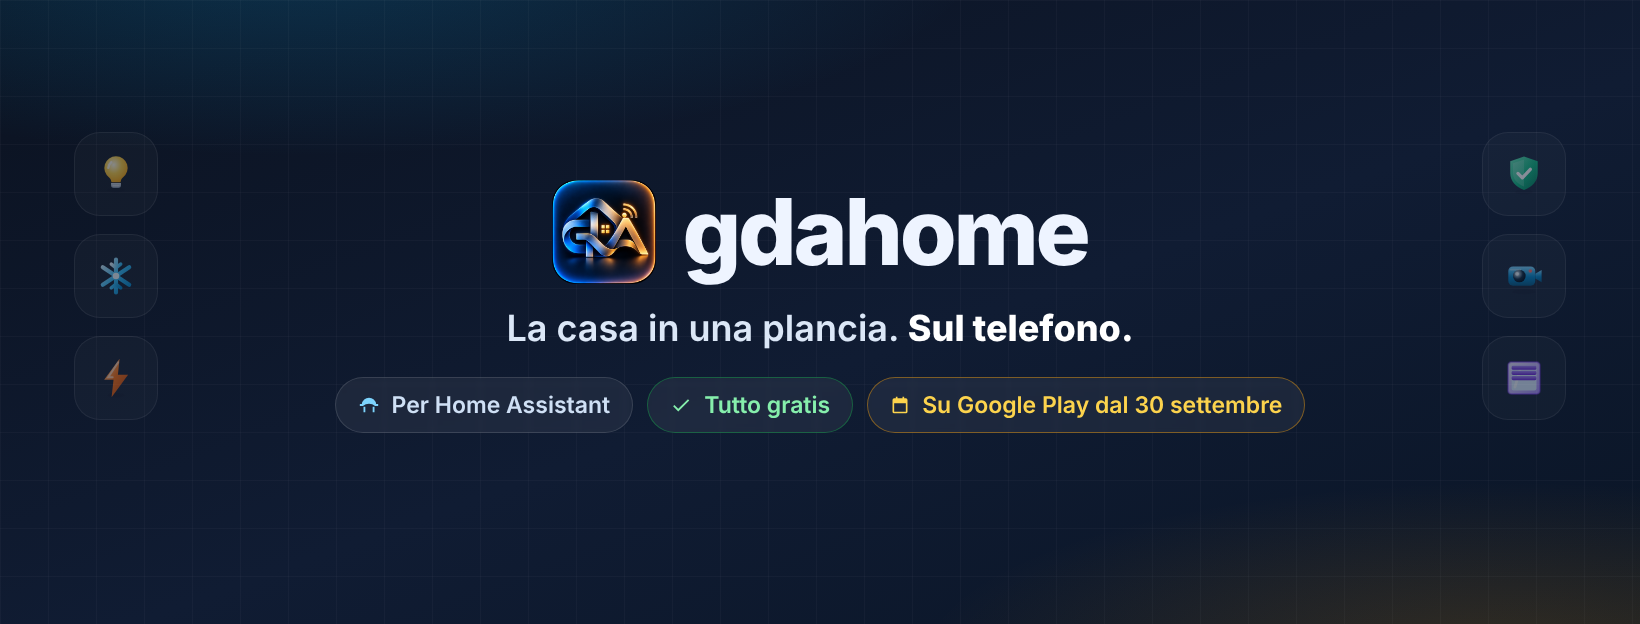
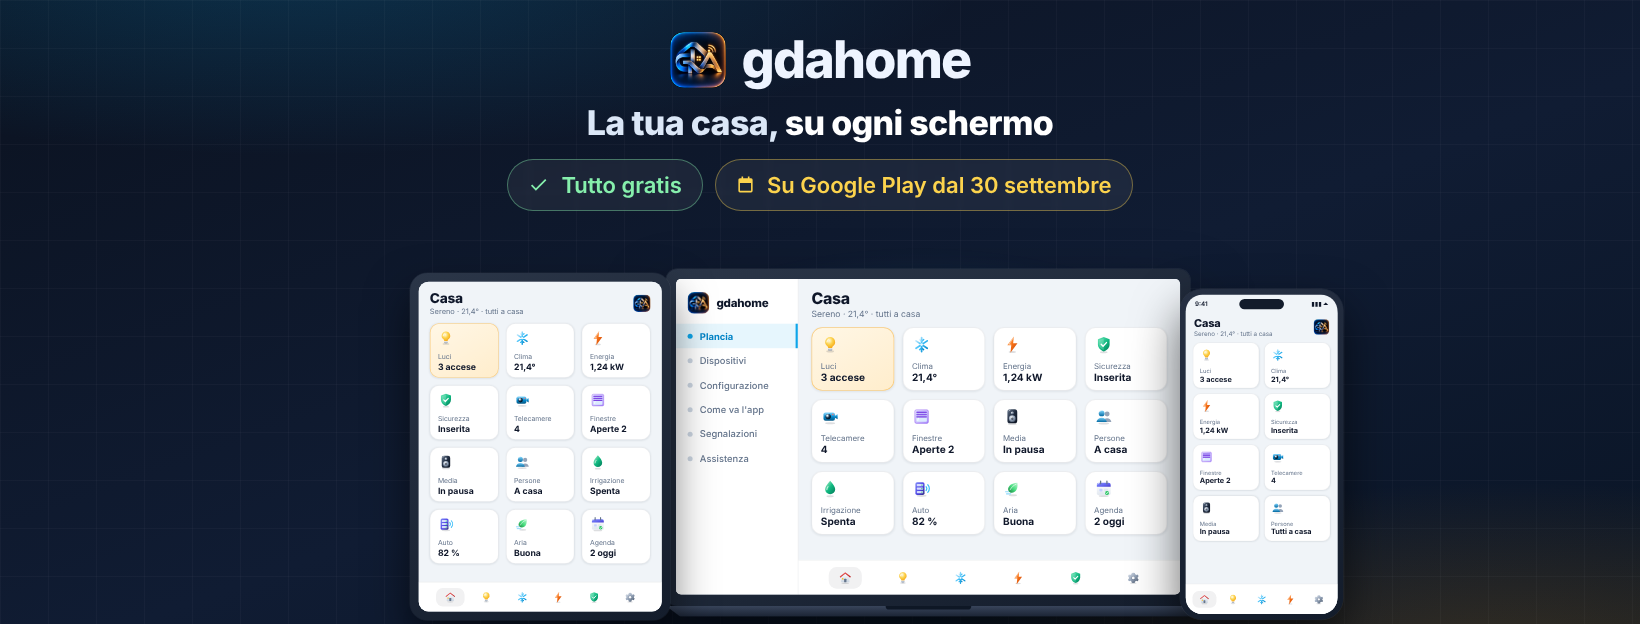
Le copertine fanno vedere i tre schermi, invece di dire che ci sono
La copertina di prima diceva «la casa in una plancia, sul telefono», e
faceva vedere un telefono. Ma gdahome **non e' un'app da telefono**: e' la
stessa pagina che si apre sul tablet in cucina e sul computer, e chi la
vede per la prima volta questo non lo sa — a dirglielo a parole non ci
crede, e a farglielo vedere ci crede subito.

Quindi adesso ci sono tutti e tre gli schermi, e su ognuno la plancia
**com'e' davvero li' sopra**: quattro colonne e il menu aperto di fianco
sul computer — che dal browser resta aperto per davvero — tre colonne sul
tablet, due sul telefono. Sopra, «La tua casa, su ogni schermo», e le due
pastiglie di prima: tutto gratis, su Google Play dal 30 settembre.

I pezzi nuovi stanno in `pezzi.js` e sono tre: `computer` (lo schermo e la
base che lo fa stare in piedi — un trapezio, perche' un rettangolo sotto
uno schermo sembra un rettangolo sotto uno schermo), `tavoletta`, e
`planciaLarga`, che e' la plancia con il numero di colonne che le si dice e
il menu di fianco se lo si vuole.

**Gli schermi si disegnano grandi e poi si guardano da lontano.** Il primo
giro il tablet era disegnato piccolo, e le tessere venivano strette un
terzo: «3 accese» andava a capo dentro una tessera alta come le altre, e
usciva dal bordo di sotto. Adesso il tablet si disegna a 420×560 — le
proporzioni vere — e a rimpicciolirlo e' l'involucro. Dentro non cambia
niente.

Il resto sono le due cose che Facebook taglia, e stavolta si vedono
[…]

diff --git a/strumenti/video/copertine.js b/strumenti/video/copertine.js
@@ -1,19 +1,35 @@
 /* Le due copertine di Facebook.
  *
+ * Fanno vedere una cosa sola, e in un colpo: **la stessa casa su tutti e tre
+ * gli schermi**. Chi vede gdahome per la prima volta pensa a un'app da
+ * telefono; il computer e il tablet non se li immagina, e a dirglielo a parole
+ * non ci crede. Percio' qui non c'e' scritto «va su tutti i dispositivi»: ci
+ * sono i tre dispositivi, con sopra la plancia com'e' davvero su ognuno —
+ * quattro colonne e il menu aperto di fianco sul computer, tre sul tablet, due
+ * sul telefono.
+ *
  * Quale delle due si disegna lo dice l'indirizzo — `copertine.html?tipo=gruppo`
- * — e quello che cambia non e' l'aspetto ma **dove Facebook taglia**:
+ * — e quello che cambia non e' il disegno ma **dove Facebook taglia**:
  *
- * - il **gruppo** e' 1640×856 e si perde soprattutto in basso, dove sul
- *   telefono ci finisce sopra il nome del gruppo;
- * - la **pagina** e' 1640×624 e sul telefono se ne vede solo la parte in
- *   mezzo, due terzi scarsi della larghezza; in basso a sinistra, sul
- *   computer, ci sta sopra la foto del profilo.
- *
- * Quindi la pagina ha tutto in mezzo e niente ai lati, e il gruppo puo'
- * permettersi il telefono di fianco.
+ * - il **gruppo** e' 1640×856: sul telefono si accorcia, e in fondo ci finisce
+ *   sopra il nome del gruppo. Percio' le parole stanno in alto e gli schermi
+ *   sotto, dove al massimo si perde un pezzo di cornice.
+ * - la **pagina** e' 1640×624: sul telefono se ne vede solo la parte in mezzo,
+ *   due terzi scarsi — da 279 a 1361 — e in basso a sinistra, sul computer, ci
+ *   sta sopra la foto del profilo. Percio' e' tutto in mezzo, e gli schermi
+ *   cominciano piu' a destra di dove arriva quella foto.
  */
 
-import { MARCHIO, mettiInScena, oggetto, plancia, segno, telefono } from "./pezzi.js";
+import {
+  computer,
+  MARCHIO,
+  mettiInScena,
+  plancia,
+  planciaLarga,
+  segno,
+  tavoletta,
+  telefono,
+} from "./pezzi.js";
 
 const misure = new URLSearchParams(location.search);
 const quale = misure.get("tipo") || "gruppo";
@@ -21,33 +37,47 @@ document.documentElement.style.setProperty("--alto", `${misure.get("alto") || 85
 
 const SCENE = [];
 
-const firma = (lato, nome) => `
-  <div class="firma">
-    <img src="${MARCHIO}" width="${lato}" height="${lato}" style="border-radius:${Math.round(lato * 0.23)}px" alt="" />
-    <h1 class="nome">gdahome</h1>
-  </div>`;
+/* L'alone dietro gli schermi: senza, i tre stanno appiccicati sul fondo
+   scuro; con, sembrano poggiati su qualcosa. */
+const alone = (x, y, largo, alto) => `
+  <div style="position:absolute;left:${x}px;top:${y}px;width:${largo}px;height:${alto}px;
+              background:radial-gradient(closest-side,rgba(14,165,233,.42),rgba(56,189,248,.12) 55%,rgba(14,165,233,0));
+              filter:blur(6px)"></div>`;
 
-const pastiglie = `
-  <div class="pastiglie">
-    <span class="vetro">${segno("ponte", 24, "#7dd3fc")} Un add-on di Home Assistant</span>
-    <span class="vetro verde">${segno("spunta", 24, "#86efac")} Tutto gratis</span>
-    <span class="vetro ambra">${segno("calendario", 22, "#fcd34d")} Su Google Play dal 30 settembre</span>
-  </div>`;
+/* L'ombra sotto: senza, i tre schermi galleggiano sul fondo; con, poggiano. */
+const ombra = (x, y, largo) => `
+  <div style="position:absolute;left:${x}px;top:${y}px;width:${largo}px;height:46px;border-radius:50%;
+              background:radial-gradient(closest-side,rgba(0,0,0,.6),rgba(0,0,0,0));filter:blur(10px)"></div>`;
 
-/* Il contorno della copertina della pagina: i disegni della plancia, senza
-   parole. Stanno **fuori** dalla parte che si vede sul telefono, ed e' apposta:
-   li' ci va solo roba che si puo' perdere. Senza parole perche' una parola
-   tagliata a meta' non sembra un contorno, sembra un errore — e con la parola
-   accanto era quello che succedeva. */
-const contorno = (dove, quali) => `
-  <div class="contorno" style="${dove}">
-    ${quali
-      .map(
-        (nome) =>
-          `<div class="vetro" style="width:84px;height:84px;border-radius:26px;display:grid;place-items:center;padding:0">${oggetto(nome, 44)}</div>`,
-      )
-      .join("")}
-  </div>`;
+const pastiglia = (testo, disegno, tinta) => `
+  <span class="vetro" style="border-color:${tinta}66;color:${tinta}">${disegno} ${testo}</span>`;
+
+const LE_PASTIGLIE = `
+  ${pastiglia("Tutto gratis", segno("spunta", 24, "#86efac"), "#86efac")}
+  ${pastiglia("Su Google Play dal 30 settembre", segno("calendario", 22, "#fcd34d"), "#fcd34d")}`;
+
+/* I tre schermi, con sopra la plancia che gli tocca. */
+const IL_COMPUTER = (scala) =>
+  computer({
+    largo: 700,
+    alto: 438,
+    scala,
+    dentro: planciaLarga({ colonne: 4, quante: 12, menu: true }),
+  });
+
+/* Il tablet si disegna grande — quattrocentoventi per cinquecentosessanta, le
+ * proporzioni vere — e poi lo si guarda da lontano. Disegnarlo piccolo voleva
+ * dire tessere strette un terzo, e «3 accese» che andava a capo dentro una
+ * tessera alta come le altre: usciva dal bordo di sotto. */
+const IL_TABLET = (scala) =>
+  tavoletta({
+    largo: 420,
+    alto: 560,
+    scala,
+    dentro: planciaLarga({ colonne: 3, quante: 12 }),
+  });
+
+const IL_TELEFONO = (scala) => telefono({ scala, dentro: plancia() });
 
 /* ══ La copertina del gruppo: 1640×856 ═════════════════════════════════ */
 
@@ -56,42 +86,58 @@ if (quale === "gruppo") {
     nome: "gruppo",
     durata: 1,
     contenuto: () => `
-      <div class="dentro" style="padding:0 96px 84px">
-        <div style="width:880px">
-          ${firma(126)}
-          <p class="motto">La casa in una plancia.<br /><b>Sul telefono.</b></p>
-          ${pastiglie}
+      <div style="position:absolute;left:0;right:0;top:38px;text-align:center">
+        <div style="display:flex;align-items:center;justify-content:center;gap:20px">
+          <img src="${MARCHIO}" width="74" height="74" style="border-radius:18px" alt="" />
+          <h1 class="nome" style="font-size:66px">gdahome</h1>
         </div>
+        <p class="motto" style="font-size:46px;margin-top:20px;font-weight:800;letter-spacing:-.025em">
+          La tua casa, <b>su ogni schermo</b>
+        </p>
+        <p class="motto" style="font-size:26px;margin-top:12px;font-weight:500;color:#9db0cc">
+          Telefono, tablet e computer: la stessa plancia, per tutta la casa.
+        </p>
+        <div class="pastiglie" style="justify-content:center;margin-top:20px">${LE_PASTIGLIE}</div>
       </div>
-      ${telefono({ x: 1132, y: 62, scala: 1.14, dentro: plancia() })}`,
+
+      ${alone(400, 320, 860, 530)}
+      ${ombra(190, 806, 1250)}
+      <div style="position:absolute;left:502px;top:342px">${IL_COMPUTER(1)}</div>
+      <div style="position:absolute;left:158px;top:348px;z-index:2">${IL_TABLET(0.86)}</div>
+      <div style="position:absolute;left:1222px;top:334px;z-index:2">${IL_TELEFONO(0.78)}</div>`,
   });
 }
 
-/* ══ La copertina della pagina: 1640×624 ═══════════════════════════════
- *
- * Tutto in mezzo. Sul telefono di questa striscia si vede solo la parte
- * centrale — da 279 a 1361 — e in basso a sinistra, sul computer, ci sta
- * sopra la foto del profilo: li' non ci va niente. */
+/* ══ La copertina della pagina: 1640×624 ═══════════════════════════════ */
 
 if (quale === "pagina") {
   SCENE.push({
     nome: "pagina",
     durata: 1,
     contenuto: () => `
-      ${contorno("left:74px;top:132px", ["luci", "clima", "energia"])}
-      ${contorno("right:74px;top:132px", ["sicurezza", "telecamere", "tapparelle"])}
-
-      <div class="dentro" style="justify-content:center;padding-bottom:12px">
-        <div style="width:1040px;text-align:center">
-          <div style="display:flex;justify-content:center">${firma(104)}</div>
-          <p class="motto" style="font-size:36px">La casa in una plancia. <b>Sul telefono.</b></p>
-          <div class="pastiglie" style="justify-content:center;margin-top:26px;font-size:23px">
-            <span class="vetro" style="font-size:23px;padding:13px 22px">${segno("ponte", 22, "#7dd3fc")} Per Home Assistant</span>
-            <span class="vetro verde" style="font-size:23px;padding:13px 22px">${segno("spunta", 22, "#86efac")} Tutto gratis</span>
-            <span class="vetro ambra" style="font-size:23px;padding:13px 22px">${segno("calendario", 20, "#fcd34d")} Su Google Play dal 30 settembre</span>
-          </div>
+      <div style="position:absolute;left:0;right:0;top:32px;text-align:center">
+        <div style="display:flex;align-items:center;justify-content:center;gap:16px">
+          <img src="${MARCHIO}" width="56" height="56" style="border-radius:14px" alt="" />
+          <h1 class="nome" style="font-size:52px">gdahome</h1>
         </div>
-      </div>`,
+        <p class="motto" style="font-size:34px;margin-top:14px;font-weight:800;letter-spacing:-.02em">
+          La tua casa, <b>su ogni schermo</b>
+        </p>
+        <div class="pastiglie" style="justify-content:center;margin-top:14px;gap:12px">
+          <span class="vetro" style="font-size:22px;padding:12px 20px;border-color:#86efac66;color:#86efac">
+            ${segno("spunta", 21, "#86efac")} Tutto gratis
+          </span>
+          <span class="vetro" style="font-size:22px;padding:12px 20px;border-color:#fcd34d66;color:#fcd34d">
+            ${segno("calendario", 19, "#fcd34d")} Su Google Play dal 30 settembre
+          </span>
+        </div>
+      </div>
+
+      ${alone(560, 250, 720, 400)}
+      ${ombra(400, 596, 950)}
+      <div style="position:absolute;left:666px;top:269px">${IL_COMPUTER(0.72)}</div>
+      <div style="position:absolute;left:410px;top:273px;z-index:2">${IL_TABLET(0.62)}</div>
+      <div style="position:absolute;left:1180px;top:289px;z-index:2">${IL_TELEFONO(0.52)}</div>`,
   });
 }
 

diff --git a/strumenti/video/pezzi.js b/strumenti/video/pezzi.js
@@ -183,3 +183,142 @@ export function mettiInScena(SCENE) {
     },
   };
 }
+
+/* ── Gli altri due schermi ────────────────────────────────────────────────
+ *
+ * gdahome non e' un'app da telefono: e' la stessa pagina che si apre sul
+ * tablet in cucina e sul computer, e chi la vede per la prima volta questo
+ * non lo sa. Quindi quando si fa vedere la casa si fanno vedere **tutti e
+ * tre** gli schermi, e su ognuno la plancia com'e' davvero li' sopra: due
+ * colonne sul telefono, tre sul tablet, quattro sul computer con il menu
+ * aperto di fianco — che sul computer resta aperto per davvero.
+ */
+
+/* Le tessere, per uno schermo qualunque. */
+const TESSERE = [
+  ["luci", "Luci", "3 accese"],
+  ["clima", "Clima", "21,4°"],
+  ["energia", "Energia", "1,24 kW"],
+  ["sicurezza", "Sicurezza", "Inserita"],
+  ["telecamere", "Telecamere", "4"],
+  ["tapparelle", "Finestre", "Aperte 2"],
+  ["media", "Media", "In pausa"],
+  /* «Tutti a casa» in una tessera del tablet andava a capo: li' la colonna e'
+     un terzo di quella del telefono, e una riga che va a capo in una tessera
+     alta come le altre esce dal bordo di sotto. */
+  ["persone", "Persone", "A casa"],
+  ["irrigazione", "Irrigazione", "Spenta"],
+  ["macchine", "Auto", "82 %"],
+  ["aria", "Aria", "Buona"],
+  ["agenda", "Agenda", "2 oggi"],
+];
+
+/* Le voci del menu: quelle vere dell'app, `app/lib/schermate/menu.dart`. */
+const MENU = [
+  "Plancia",
+  "Dispositivi",
+  "Configurazione",
+  "Come va l'app",
+  "Segnalazioni",
+  "Assistenza",
+];
+
+/* La plancia su uno schermo largo: quante colonne, quante tessere, e se il
+   menu sta aperto di fianco come succede sul computer. */
+export function planciaLarga({ colonne = 3, quante = 9, menu = false, lato = 170 } = {}) {
+  const tessere = TESSERE.slice(0, quante)
+    .map(([disegno, nome, valore], i) => tessera(disegno, nome, valore, i === 0, "", "height:82px"))
+    .join("");
+  return `
+  <div style="position:absolute;inset:0;background:#f0f4f8;display:flex">
+    ${
+      menu
+        ? `<div style="width:${lato}px;flex:0 0 auto;background:#fff;border-right:1px solid rgba(15,23,42,.08);padding:14px 0">
+             <div style="display:flex;align-items:center;gap:10px;padding:4px 16px 14px">
+               <img src="${MARCHIO}" width="30" height="30" style="border-radius:9px" alt="" />
+               <span style="font-size:16px;font-weight:800;letter-spacing:-.02em">gdahome</span>
+             </div>
+             ${MENU.map(
+               (
+                 voce,
+                 i,
+               ) => `<div style="display:flex;align-items:center;gap:10px;padding:9px 16px;font-size:13px;font-weight:${i === 0 ? 700 : 500};
+                    color:${i === 0 ? "#0284c7" : "#64748b"};${i === 0 ? "background:rgba(14,165,233,.1);border-right:3px solid #0ea5e9" : ""}">
+                    <span style="width:7px;height:7px;border-radius:50%;background:${i === 0 ? "#0ea5e9" : "#cbd5e1"}"></span>${voce}</div>`,
+             ).join("")}
+           </div>`
+        : ""
+    }
+    <div style="flex:1;min-width:0;display:flex;flex-direction:column">
+      <div style="padding:14px 18px 12px;display:flex;align-items:center;justify-content:space-between">
+        <div>
+          <div style="font-size:22px;font-weight:800;letter-spacing:-.02em">Casa</div>
+          <div style="font-size:12px;color:#64748b">Sereno · 21,4° · tutti a casa</div>
+        </div>
+        ${menu ? "" : `<img src="${MARCHIO}" width="28" height="28" style="border-radius:8px" alt="" />`}
+      </div>
+      <div style="flex:1;padding:0 18px;display:grid;grid-template-columns:repeat(${colonne},1fr);gap:12px;align-content:start">
+        ${tessere}
+      </div>
+      <div style="height:48px;background:#fff;border-top:1px solid rgba(15,23,42,.07);display:flex;align-items:center;justify-content:center;gap:${colonne > 3 ? 34 : 12}px">
+        ${["home", "luci", "clima", "energia", "sicurezza", "impostazioni"]
+          .map(
+            (nome, i) =>
+              `<div style="display:grid;place-items:center;${i === 0 ? "background:rgba(15,23,42,.06);border-radius:11px;padding:5px 13px" : "padding:5px 13px"}">${oggetto(nome, 20)}</div>`,
+          )
+          .join("")}
+      </div>
+    </div>
+  </div>`;
+}
+
+/* Il tablet: una cornice e basta, senza tacca. */
+export function tavoletta({ largo = 340, alto = 460, dentro = "", stile = "", scala = 1 }) {
+  const apparecchio = `
+  <div style="width:${largo}px;height:${alto}px;border-radius:28px;padding:14px;${stile}
+              background:linear-gradient(155deg,#2b3648,#141d2c);
+              box-shadow:0 34px 70px rgba(0,0,0,.55),0 0 0 1px rgba(255,255,255,.08)">
+    <div style="position:relative;width:100%;height:100%;border-radius:16px;overflow:hidden;background:#f0f4f8;color:#0f172a">
+      ${dentro}
+    </div>
+  </div>`;
+  return rimpicciolito(apparecchio, largo, alto, scala);
+}
+
+/* Il computer: lo schermo, e sotto la base che lo fa stare in piedi.
+ *
+ * La base e' un trapezio — un filo piu' larga dello schermo e rastremata —
+ * perche' un rettangolo sotto uno schermo sembra un rettangolo sotto uno
+ * schermo, non un portatile. */
+export function computer({ largo = 700, alto = 438, dentro = "", stile = "", scala = 1 }) {
+  const apparecchio = `
+  <div style="width:${largo + 28}px;${stile}">
+    <div style="border-radius:16px;padding:14px 14px 16px;background:linear-gradient(155deg,#2b3648,#141d2c);
+                box-shadow:0 40px 80px rgba(0,0,0,.55),0 0 0 1px rgba(255,255,255,.08)">
+      <div style="position:relative;width:${largo}px;height:${alto}px;border-radius:7px;overflow:hidden;background:#f0f4f8;color:#0f172a">
+        ${dentro}
+      </div>
+    </div>
+    <div style="width:${Math.round(largo * 1.14)}px;height:15px;margin:0 auto;
+                background:linear-gradient(180deg,#38445a,#1b2434);
+                clip-path:polygon(0 0,100% 0,97.5% 100%,2.5% 100%);
+                border-radius:0 0 7px 7px"></div>
+    <div style="width:${Math.round(largo * 0.17)}px;height:5px;margin:-15px auto 0;position:relative;
+                background:#0e1725;border-radius:0 0 6px 6px"></div>
+  </div>`;
+  return rimpicciolito(apparecchio, largo + 28, alto + 50, scala);
+}
+
+/* Rimpicciolire uno schermo **da fuori**, con l'involucro che prende la misura
+ * scalata.
+ *
+ * Non si rifa' piu' piccolo quello che c'e' dentro: una plancia disegnata in
+ * quattrocento pixel invece che in settecento non e' la stessa plancia piu'
+ * piccola, e' un'altra plancia — le tessere si stringono, le scritte vanno a
+ * capo, il menu non ci sta. Cosi' invece lo schermo e' sempre lo stesso e
+ * cambia solo quanto lo si guarda da lontano. */
+function rimpicciolito(roba, largo, alto, scala) {
+  if (scala === 1) return roba;
+  return `<div style="width:${Math.round(largo * scala)}px;height:${Math.round(alto * scala)}px;
+    transform:scale(${scala});transform-origin:top left">${roba}</div>`;
+}

diff --git a/strumenti/video/README.md b/strumenti/video/README.md
@@ -88,20 +88,35 @@ le scene del film corto non sono disposte a coordinate come quelle del film
 lungo, ma **a colonna**: si mettono in fila e si dispongono da sole con lo
 spazio che trovano, che in un quadrato e in un palco in piedi è diverso.
 
-### Le copertine, e dove Facebook taglia
+### Le copertine: i tre schermi
 
-Le due copertine sono ferme — nessuna animazione — ma sono disegnate con gli
-stessi pezzi dei film, e sono **due** perché Facebook le taglia in due modi
-diversi:
+Le due copertine sono ferme — nessuna animazione — e dicono una cosa sola: **la
+stessa casa su tutti e tre gli schermi**. Chi vede gdahome per la prima volta
+pensa a un'app da telefono, e il computer non se lo immagina; scriverglielo non
+basta, e allora ci sono i tre dispositivi con sopra la plancia **com'è davvero
+su ognuno**:
 
-- **il gruppo** (1640×856): sul telefono la striscia si accorcia, e il nome del
-  gruppo finisce sopra la fascia di sotto. Per questo il testo sta nella metà
-  alta e la parte bassa è vuota.
+| schermo | com'è disegnato |
+|---|---|
+| computer | `planciaLarga({ colonne: 4, quante: 12, menu: true })` — quattro colonne e il menu aperto di fianco, che dal browser resta aperto per davvero |
+| tablet | `planciaLarga({ colonne: 3, quante: 12 })` in una cornice 420×560 |
+| telefono | la stessa `plancia()` dei film, due colonne |
+
+Gli schermi si disegnano **grandi e poi si guardano da lontano**
+(`rimpicciolito`): una plancia disegnata in quattrocento pixel invece che in
+settecento non è la stessa plancia più piccola, è un'altra plancia — le tessere
+si stringono, le scritte vanno a capo, il menu non ci sta. È il difetto che si
+era visto nel tablet, con «3 accese» che andava a capo e usciva dal bordo.
+
+E sono **due** copertine perché Facebook le taglia in due modi diversi:
+
+- **il gruppo** (1640×856): sul telefono la striscia si accorcia, e in fondo ci
+  finisce sopra il nome del gruppo. Per questo le parole stanno in alto e gli
+  schermi sotto, dove al massimo si perde un pezzo di cornice.
 - **la pagina** (1640×624): sul telefono se ne vede solo la **parte in mezzo**,
-  due terzi scarsi della larghezza — da 279 a 1361 —, e in basso a sinistra, sul
-  computer, ci finisce sopra la foto del profilo. Per questo tutto quello che
-  conta sta in mezzo, e ai lati ci sono solo i disegni della plancia: roba che
-  si può perdere.
+  due terzi scarsi della larghezza — da 279 a 1361 — e in basso a sinistra, sul
+  computer, ci finisce sopra la foto del profilo. Per questo è tutto in mezzo, e
+  gli schermi cominciano più a destra di dove arriva quella foto.
 
 Come si controlla, invece di sperarci — si ritaglia quello che vedrebbe il
 telefono e si guarda se manca qualcosa:
